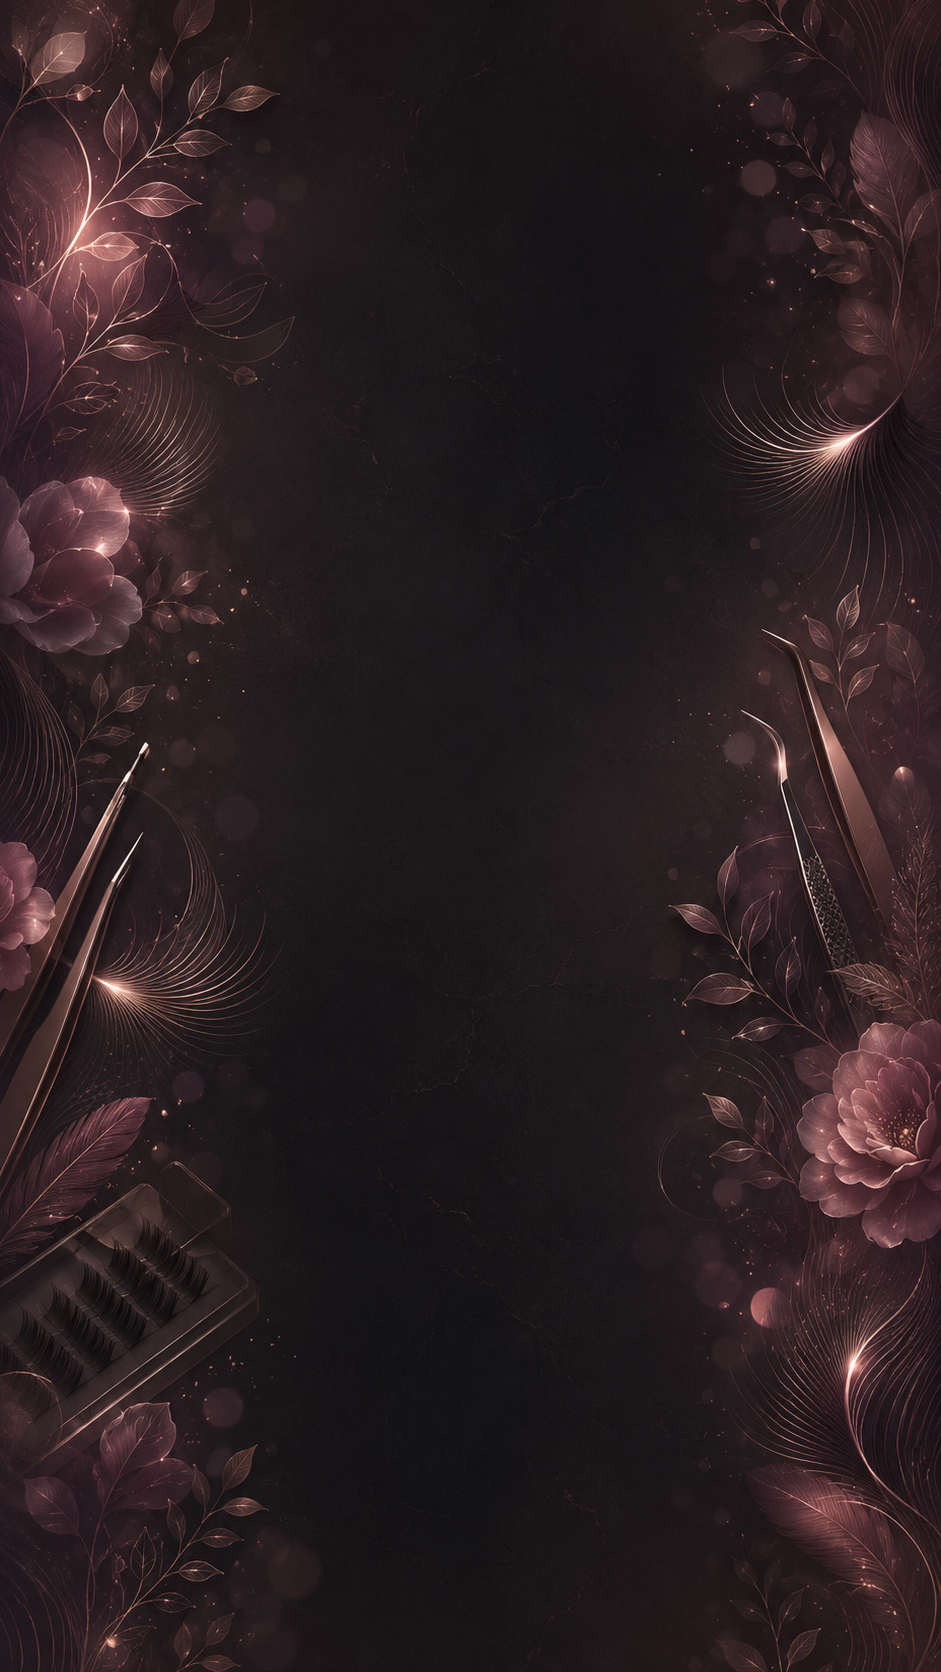
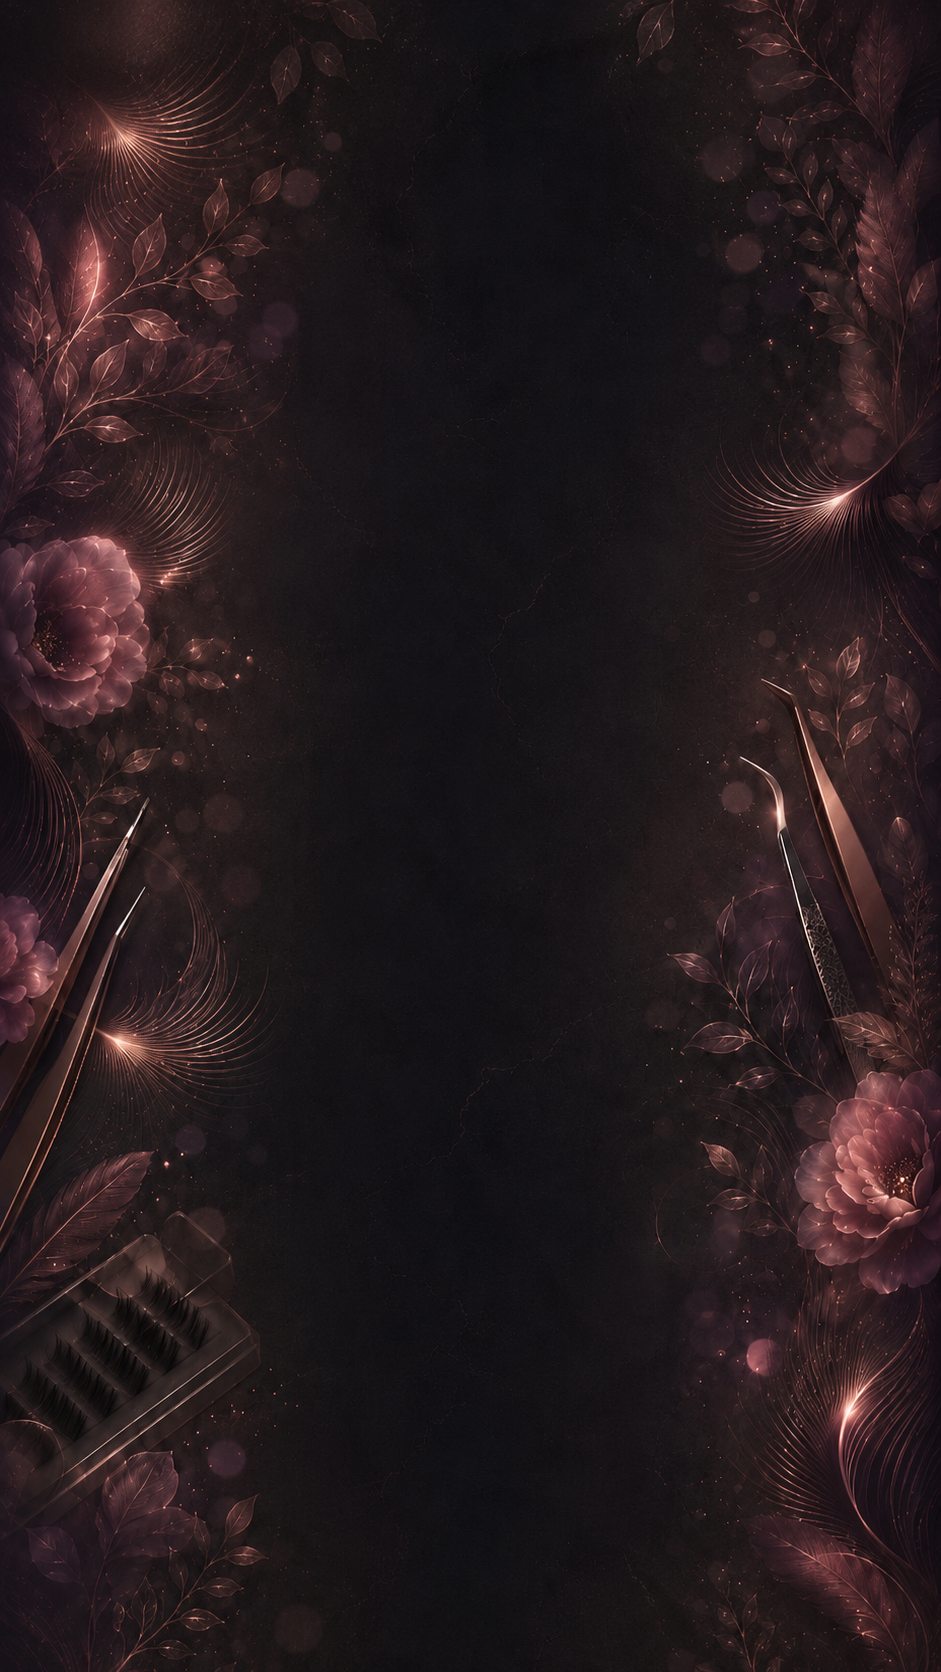
Refine services decor and background

diff --git a/src/components/sections/ServicesSection.vue b/src/components/sections/ServicesSection.vue
@@ -33,8 +33,15 @@ const serviceDecorImages = [
         title="Услуги"
         text="Прозрачная стоимость и спокойный темп работы: Алина закладывает достаточно времени на консультацию, подготовку и аккуратную проработку ресничного ряда."
       />
-      <div class="services-section__decor-strip" aria-hidden="true">
-        <img v-for="image in serviceDecorImages" :key="image" :src="image" alt="" />
+      <div class="services-section__decor-cloud" aria-hidden="true">
+        <span
+          v-for="(image, index) in serviceDecorImages"
+          :key="image"
+          class="services-section__decor-item"
+          :class="`services-section__decor-item--${index + 1}`"
+        >
+          <img :src="image" alt="" />
+        </span>
       </div>
 
       <div v-if="popularService" class="services-section__featured">
@@ -76,47 +83,64 @@ const serviceDecorImages = [
   margin-bottom: 26px;
 }
 
-.services-section__decor-strip {
+.services-section__decor-cloud {
   position: absolute;
   z-index: 0;
-  top: 0.35rem;
-  right: clamp(0.75rem, 3vw, 2rem);
-  display: grid;
-  grid-template-columns: repeat(3, 72px);
-  gap: 0.55rem;
+  inset: 0;
   pointer-events: none;
 }
 
-.services-section__decor-strip img {
-  width: 72px;
-  height: 72px;
-  border: 1px solid rgba(255, 255, 255, 0.72);
-  border-radius: 18px;
-  object-fit: cover;
-  opacity: 0.62;
+.services-section__decor-item {
+  position: absolute;
+  display: block;
+  width: clamp(84px, 7.8vw, 116px);
+  aspect-ratio: 1;
+  border: 2px solid rgba(255, 255, 255, 0.82);
+  border-radius: 22px;
+  background: rgba(255, 248, 244, 0.5);
   box-shadow:
-    0 16px 34px rgba(83, 57, 61, 0.12),
-    0 0 0 1px rgba(143, 90, 104, 0.08);
+    0 18px 36px rgba(83, 57, 61, 0.16),
+    0 0 0 1px rgba(143, 90, 104, 0.12);
+  opacity: 0.84;
+  overflow: hidden;
 }
 
-.services-section__decor-strip img:nth-child(1) {
-  transform: rotate(-7deg);
+.services-section__decor-item img {
+  width: 100%;
+  height: 100%;
+  object-fit: cover;
 }
 
-.services-section__decor-strip img:nth-child(2) {
-  transform: translateY(0.8rem) rotate(5deg);
+.services-section__decor-item--1 {
+  top: 0.25rem;
+  right: 17.5rem;
+  transform: rotate(-8deg);
 }
 
-.services-section__decor-strip img:nth-child(3) {
-  transform: translateY(-0.35rem) rotate(8deg);
+.services-section__decor-item--2 {
+  top: 4.7rem;
+  right: 8.8rem;
+  transform: rotate(6deg);
 }
 
-.services-section__decor-strip img:nth-child(4) {
-  transform: translate(1.1rem, -0.25rem) rotate(-4deg);
+.services-section__decor-item--3 {
+  top: 1.25rem;
+  right: 0.75rem;
+  transform: rotate(10deg);
 }
 
-.services-section__decor-strip img:nth-child(5) {
-  transform: translate(0.6rem, 0.8rem) rotate(6deg);
+.services-section__decor-item--4 {
+  top: 12.3rem;
+  left: clamp(0.5rem, 3vw, 2.2rem);
+  width: clamp(76px, 7vw, 104px);
+  transform: rotate(-5deg);
+}
+
+.services-section__decor-item--5 {
+  top: 18.5rem;
+  right: clamp(0.5rem, 3vw, 2rem);
+  width: clamp(78px, 7.2vw, 108px);
+  transform: rotate(7deg);
 }
 
 .services-section__grid {
@@ -129,21 +153,50 @@ const serviceDecorImages = [
 }
 
 @media (max-width: 980px) {
-  .services-section__decor-strip {
+  .services-section__decor-cloud {
     position: relative;
-    top: auto;
-    right: auto;
-    display: flex;
-    justify-content: center;
-    gap: 0.55rem;
-    margin: -0.45rem 0 1rem;
+    min-height: 104px;
+    margin: -0.2rem 0 0.7rem;
   }
 
-  .services-section__decor-strip img {
-    width: clamp(48px, 8vw, 64px);
-    height: clamp(48px, 8vw, 64px);
-    border-radius: 15px;
-    opacity: 0.72;
+  .services-section__decor-item {
+    position: absolute;
+    top: auto;
+    right: auto;
+    left: auto;
+    width: clamp(66px, 10vw, 88px);
+    border-radius: 18px;
+    opacity: 0.82;
+  }
+
+  .services-section__decor-item--1 {
+    top: 0.6rem;
+    left: 7%;
+    transform: rotate(-8deg);
+  }
+
+  .services-section__decor-item--2 {
+    top: 2.1rem;
+    left: 24%;
+    transform: rotate(5deg);
+  }
+
+  .services-section__decor-item--3 {
+    top: 0;
+    left: 43%;
+    transform: rotate(7deg);
+  }
+
+  .services-section__decor-item--4 {
+    top: 1.8rem;
+    right: 22%;
+    transform: rotate(-5deg);
+  }
+
+  .services-section__decor-item--5 {
+    top: 0.75rem;
+    right: 6%;
+    transform: rotate(8deg);
   }
 
   .services-section__grid {
@@ -160,16 +213,43 @@ const serviceDecorImages = [
     margin-bottom: 0.65rem;
   }
 
-  .services-section__decor-strip {
-    gap: 0.42rem;
-    justify-content: flex-start;
-    margin-bottom: 0.85rem;
+  .services-section__decor-cloud {
+    min-height: 92px;
+    margin: -0.1rem 0 0.65rem;
   }
 
-  .services-section__decor-strip img {
-    width: clamp(42px, 13vw, 54px);
-    height: clamp(42px, 13vw, 54px);
-    border-radius: 13px;
+  .services-section__decor-item {
+    width: clamp(52px, 15vw, 64px);
+    border-radius: 15px;
+    opacity: 0.86;
+    box-shadow:
+      0 12px 24px rgba(83, 57, 61, 0.14),
+      0 0 0 1px rgba(143, 90, 104, 0.1);
+  }
+
+  .services-section__decor-item--1 {
+    top: 0.55rem;
+    left: 0;
+  }
+
+  .services-section__decor-item--2 {
+    top: 2rem;
+    left: 20%;
+  }
+
+  .services-section__decor-item--3 {
+    top: 0.15rem;
+    left: 42%;
+  }
+
+  .services-section__decor-item--4 {
+    top: 1.9rem;
+    right: 18%;
+  }
+
+  .services-section__decor-item--5 {
+    top: 0.7rem;
+    right: 0;
   }
 
   .services-section__grid {

diff --git a/src/styles/base.css b/src/styles/base.css
@@ -11,16 +11,14 @@ html {
 }
 
 body {
+  position: relative;
+  isolation: isolate;
   margin: 0;
   min-width: 0;
   width: 100%;
   overflow-x: hidden;
   color: var(--color-text);
   background-color: #171115;
-  background-image: url('../assets/images/background.png');
-  background-position: center top;
-  background-repeat: repeat-y;
-  background-size: 100vw auto;
   font-family:
     Inter, ui-sans-serif, system-ui, -apple-system, BlinkMacSystemFont, "Segoe UI",
     sans-serif;
@@ -28,6 +26,30 @@ body {
   text-rendering: optimizeLegibility;
   -webkit-font-smoothing: antialiased;
   -moz-osx-font-smoothing: grayscale;
+}
+
+body::before {
+  content: '';
+  position: fixed;
+  z-index: 0;
+  inset: -14px;
+  pointer-events: none;
+  background-image: url('../assets/images/background.png');
+  background-position: center top;
+  background-repeat: repeat-y;
+  background-size: calc(100vw + 28px) auto;
+  filter: blur(2.5px);
+  opacity: 0.92;
+  transform: translateZ(0);
+}
+
+body::after {
+  content: '';
+  position: fixed;
+  z-index: 0;
+  inset: 0;
+  pointer-events: none;
+  background: rgba(23, 17, 21, 0.1);
 }
 
 button,
@@ -59,6 +81,8 @@ p {
 }
 
 #app {
+  position: relative;
+  z-index: 1;
   width: min(100%, 1240px);
   min-height: 100vh;
   margin-inline: auto;